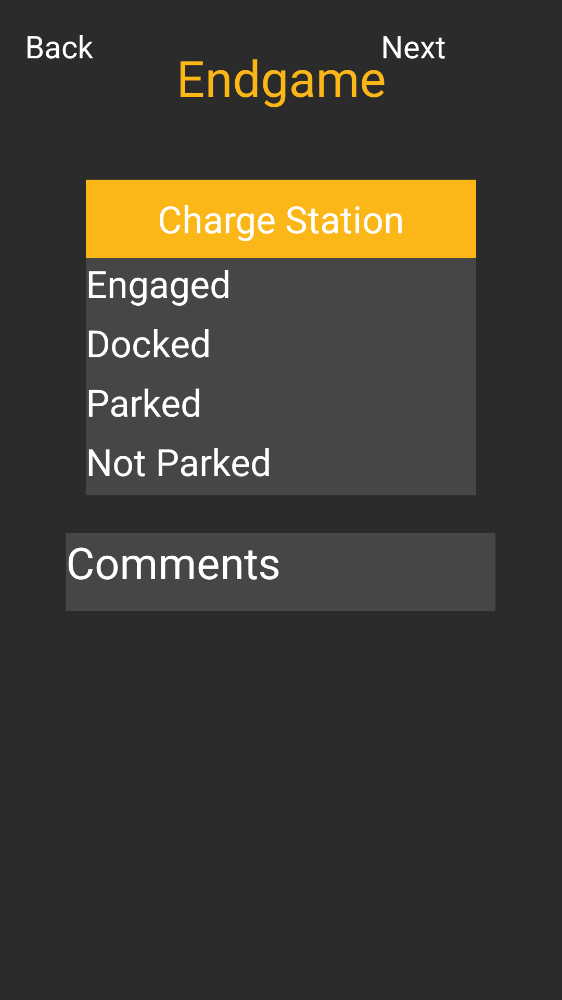
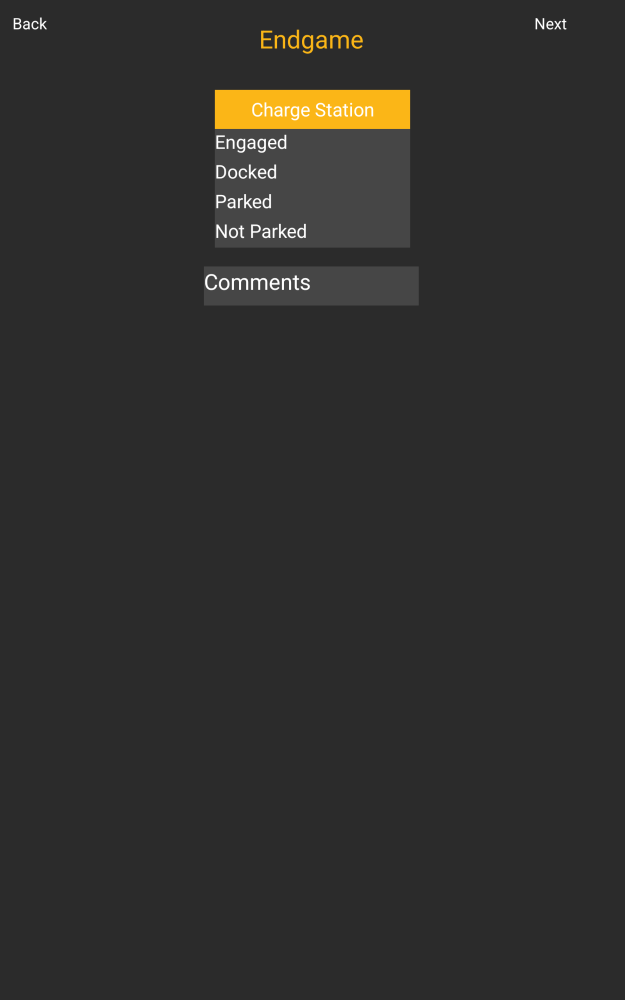
Link audit: add game manual links, fix README Einstein link, update 2023 screenshots
Link audit fixes:
- Added game manual PDF links to each year's game name (all verified 200)
- Fixed README: Einstein now links to event/2022cmptx (was team/1730/2022)
- Added year-specific team link for 2022 in README

Screenshot updates:
- Replaced 2023 screenshots with tablet-size renders from main
- Added 2023 QR output screenshot (cropped to QR code area)

Link check results (32 URLs):
- 29 verified 200 OK
- 2 preconnect hints (fonts.googleapis.com, fonts.gstatic.com) - expected 404
- 1 Pages URL pending deployment - will work after merge

All TBA event keys verified, repo links correct, no empty/# links,
all local assets exist, frc-database links remain commented out.

diff --git a/docs/index.html b/docs/index.html
@@ -59,7 +59,7 @@
       <div class="year-header">
         <div class="year-badge">2022</div>
         <div class="year-meta">
-          <span class="game-name">Rapid React</span>
+          <span class="game-name"><a href="https://firstfrc.blob.core.windows.net/frc2022/Manual/2022FRCGameManual.pdf" target="_blank" rel="noopener">Rapid React</a></span>
           <span class="role-tag">Scout Lead · Learning</span>
         </div>
       </div>
@@ -94,7 +94,7 @@
       <div class="year-header">
         <div class="year-badge">2023</div>
         <div class="year-meta">
-          <span class="game-name">Charged Up</span>
+          <span class="game-name"><a href="https://firstfrc.blob.core.windows.net/frc2023/Manual/2023FRCGameManual.pdf" target="_blank" rel="noopener">Charged Up</a></span>
           <span class="role-tag">Solo Developer</span>
         </div>
       </div>
@@ -146,6 +146,10 @@
             <figure>
               <img src="assets/images/match_2023_04_endgame.png" alt="Endgame data entry" loading="lazy">
               <figcaption>Endgame</figcaption>
+            </figure>
+            <figure>
+              <img src="assets/images/match_2023_05_qr.png" alt="QR code output" loading="lazy">
+              <figcaption>QR Output</figcaption>
             </figure>
           </div>
         </div>
@@ -203,7 +207,7 @@
       <div class="year-header">
         <div class="year-badge">2024</div>
         <div class="year-meta">
-          <span class="game-name">Crescendo</span>
+          <span class="game-name"><a href="https://firstfrc.blob.core.windows.net/frc2024/Manual/2024GameManual.pdf" target="_blank" rel="noopener">Crescendo</a></span>
           <span class="role-tag">Match + Pit Apps</span>
         </div>
       </div>
@@ -380,7 +384,7 @@
       <div class="year-header">
         <div class="year-badge">2025</div>
         <div class="year-meta">
-          <span class="game-name">Reefscape</span>
+          <span class="game-name"><a href="https://firstfrc.blob.core.windows.net/frc2025/Manual/2025GameManual.pdf" target="_blank" rel="noopener">Reefscape</a></span>
           <span class="role-tag">Flutter Rewrite</span>
         </div>
       </div>

diff --git a/profile/README.md b/profile/README.md
@@ -11,7 +11,7 @@ Four years of building scouting apps for [FRC Team 1730 (Team Driven)](https://w
 ## The Timeline
 
 ### 2022 · Rapid React · Learning
-Freshman year. I served as scout lead while seniors Heath Crump and Caden Findlay built and taught me the app. Team 1730 won the [Newton Division](https://www.thebluealliance.com/event/2022new) and competed on [Einstein](https://www.thebluealliance.com/team/1730/2022) as 2nd pick of Alliance 3.
+Freshman year. I served as scout lead while seniors Heath Crump and Caden Findlay built and taught me the app. Team 1730 won the [Newton Division](https://www.thebluealliance.com/event/2022new) and competed on [Einstein](https://www.thebluealliance.com/event/2022cmptx) as 2nd pick of Alliance 3. [View 2022 season →](https://www.thebluealliance.com/team/1730/2022)
 
 ### 2023 · Charged Up · Solo Developer
 Sophomore year. I took over as the team's sole scouting app developer—Java, Android, QR codes into Excel. Struggled, learned, got it done.
